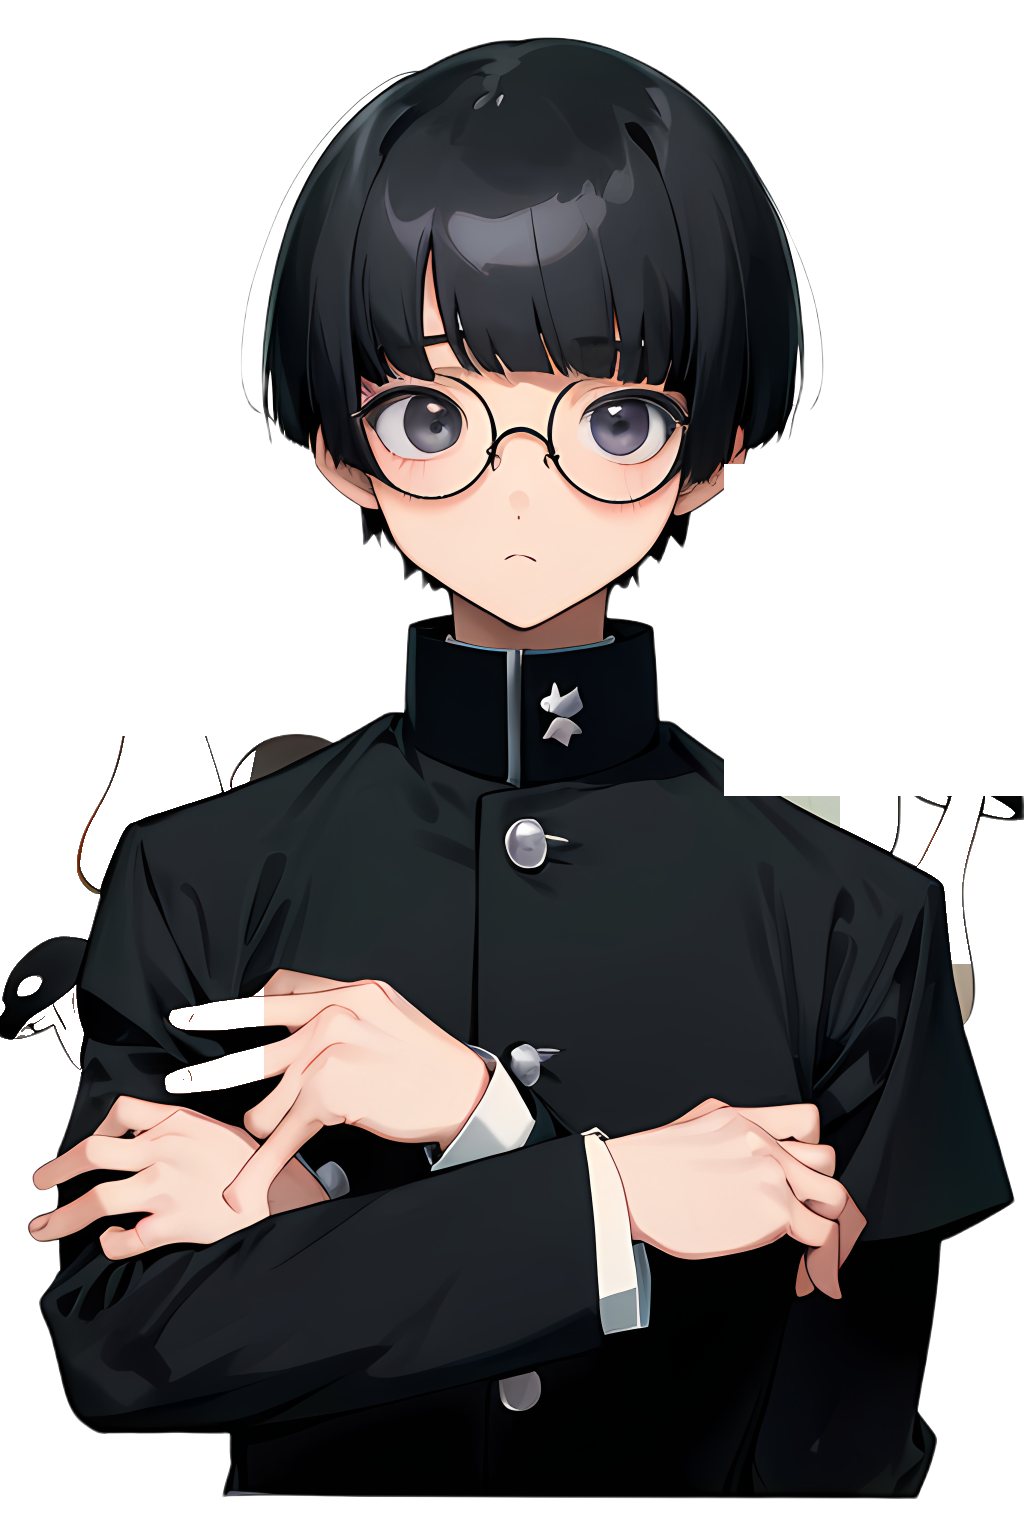
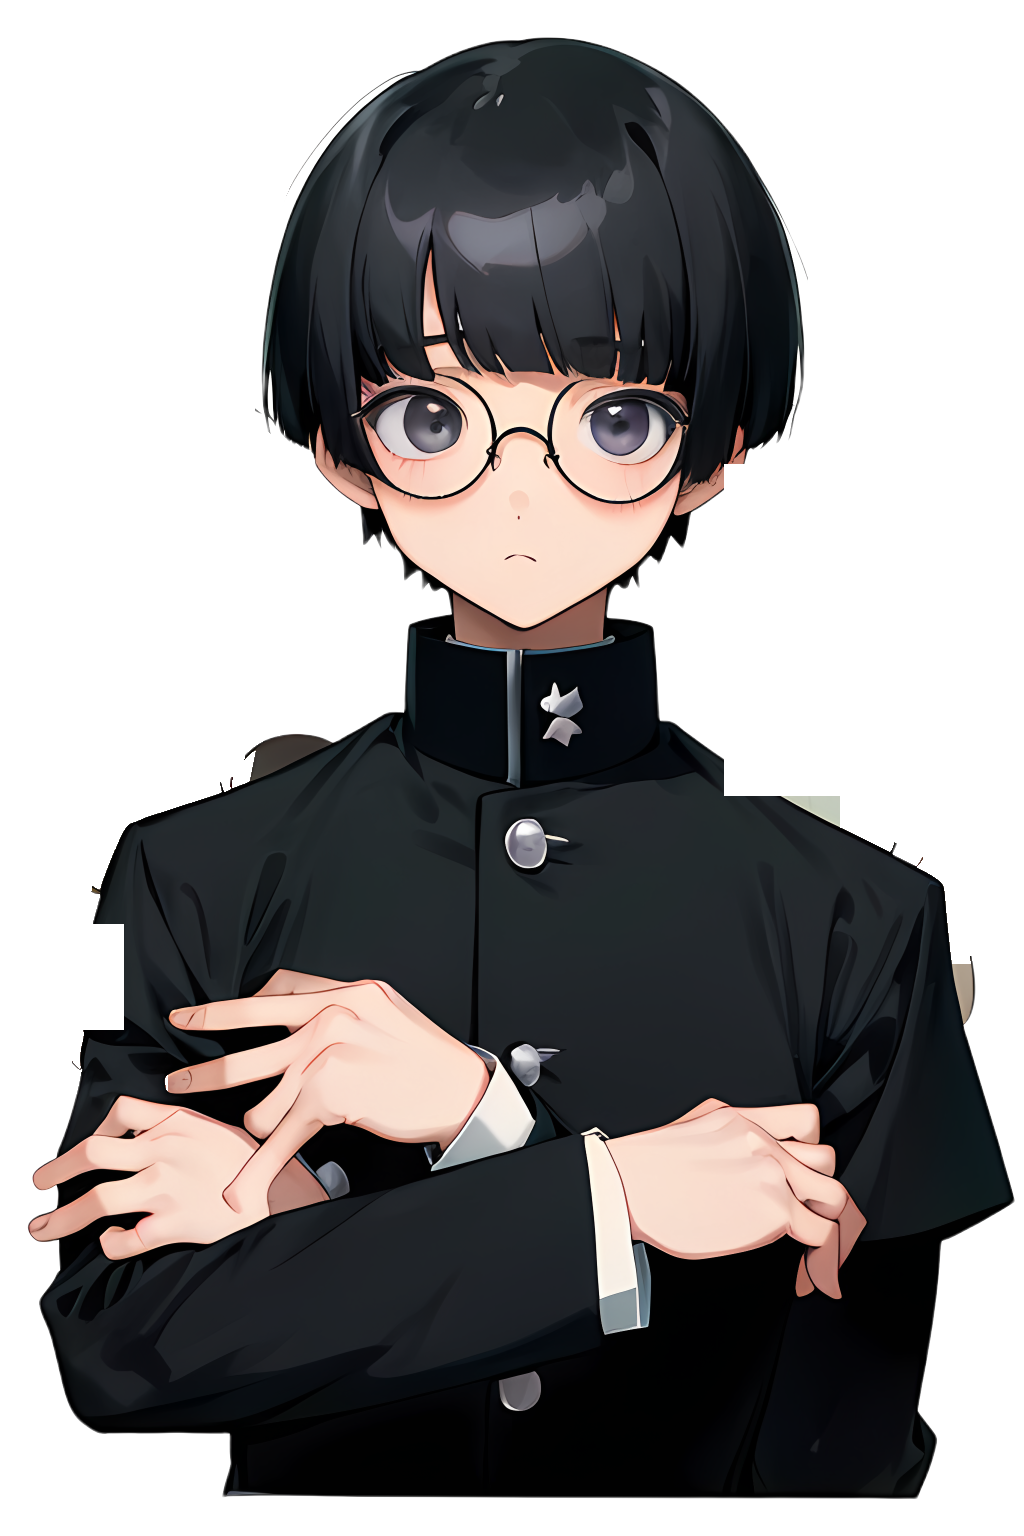
Anime assets: cutouts keep only the main body shape; Kota's painted mushrooms removed
Claude-Session: https://claude.ai/code/session_0153qDV4AufFgT2PhEBEfS8n

diff --git a/tools/anime_assets.py b/tools/anime_assets.py
@@ -253,6 +253,13 @@ def char(mod, name):
     for x0, y0, x1, y1 in c.get("clear_light", ()):   # ... only their pale parts, where they touch the body
         reg = a[y0 * 2:y1 * 2, x0 * 2:x1 * 2]
         reg[..., 3][reg[..., :3].mean(axis=2) > 110] = 0
+    if c.get("keep_main", True):                      # drop floating fragments: keep the largest connected shape
+        solid = cv2.erode((a[..., 3] > 128).astype(np.uint8), np.ones((9, 9), np.uint8))   # thin links break
+        n, lab, stats, _ = cv2.connectedComponentsWithStats(solid, connectivity=8)
+        if n > 2:
+            main = (lab == 1 + int(np.argmax(stats[1:, cv2.CC_STAT_AREA]))).astype(np.uint8)
+            keep = cv2.dilate(main, np.ones((25, 25), np.uint8))                          # grow the edges back
+            a[..., 3][keep == 0] = 0
     cut = Image.fromarray(a, "RGBA")
     cut.save(os.path.join(d, "base.png"))
     log(f"char {name}: {time.time() - t:.0f}s")

diff --git a/channels/stories/dma_cast.py b/channels/stories/dma_cast.py
@@ -27,8 +27,8 @@ CHARS = {
                  extra=("smirk",)),
     "kota": dict(tags=f"1boy, black hair, mushroom haircut, straight bangs, round glasses, nervous, {GAKURAN}",
                  seed=44, face=(162, 128, 362, 328), eyes=(178, 188, 345, 252), mouth=(236, 254, 286, 290),
-                 clear=((0, 270, 140, 368), (362, 232, 512, 398)),
-                 clear_light=((0, 360, 132, 548), (420, 396, 512, 482))),   # the model painted mushrooms
+                 clear=((0, 270, 140, 368), (362, 232, 512, 398), (0, 462, 62, 515)),
+                 clear_light=((0, 360, 132, 470), (0, 470, 84, 548), (420, 396, 512, 482))),   # painted mushrooms
     "go": dict(tags=f"1boy, tall, broad shoulders, very short black hair, crew cut, thick eyebrows, serious, {GAKURAN}",
                seed=33, face=(190, 228, 390, 428), eyes=(198, 282, 364, 334), mouth=(262, 360, 316, 392),
                extra=("angry",)),
